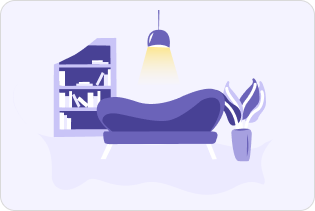
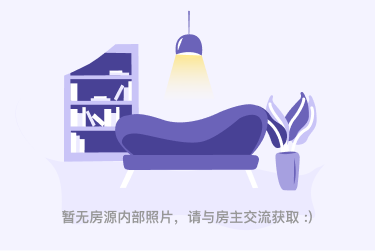
默认房源照片调整 + 跳转房源页+ 房源页照片显示

diff --git a/src/pages/house-detail/index.tsx b/src/pages/house-detail/index.tsx
@@ -1,0 +1,85 @@
+import { observer } from '@store/utils';
+import { View, Swiper, SwiperItem, Image, Text } from '@tarojs/components';
+import { useRouter } from '@tarojs/taro';
+import { HouseItemProps } from '@utils/interfaces';
+import { useEffect, useState } from 'react';
+import DefaultHouse from '@assets/images/default-house.png';
+
+const Index = () => {
+  const router = useRouter();
+  const houseId = router.params.id;
+  const [houseDetail, setHouseDetail] = useState<HouseItemProps | null>(null);
+
+  const demoData: HouseItemProps = {
+    house: {
+      id: '63cb1eba65fc8fd3054d82f30ac0a2d2',
+      capacity: 1,
+      description: '女',
+      startDate: '2024-04-20',
+      endDate: '2024-04-20',
+      houseType: 'unknown',
+      location: '西班牙巴塞罗那',
+      ownerTarget: '',
+      images: [
[1 lines of base64/hex data omitted]
+        // 'https://media.self.com/photos/630635c30b7f36ce816f374a/4:3/w_960,c_limit/DAB03919-10470989.jpg',
+        // 'https://thumbor.forbes.com/thumbor/fit-in/1290x/https://www.forbes.com/advisor/wp-content/uploads/2022/10/condo-vs-apartment.jpeg.jpg',
+      ],
+      xhsContact: '418467603',
+    },
+  };
+
+  useEffect(() => {
+    setHouseDetail(demoData);
+  }, []);
+
+  // 通过houseId获取房源详情
+  const getHouseDetail = async () => {
+    // 这里调用接口获取房源详情
+  };
+
+  // 充满容器的样式
+  const fullContainerStyle = {
+    width: '100%',
+    height: '100%',
+  };
+
+  return (
+    <View className='images'>
+      <Swiper
+        indicatorColor='#999'
+        indicatorActiveColor='#333'
+        circular
+        indicatorDots
+        autoplay
+        style={{ width: '100%', height: '250px' }} // 设置轮播图的宽高, 目前为固定值，后期可以根据需求调整，适配不同机型
+      >
+        {houseDetail?.house.images.length === 0 ? (
+          <SwiperItem style={fullContainerStyle}>
+            <View className='swiper-item' style={fullContainerStyle}>
+              <Image
+                src={DefaultHouse}
+                mode='aspectFit' // 保持原始比例，可能留有空白
+                style={fullContainerStyle}
+              />
+            </View>
+          </SwiperItem>
+        ) : (
+          houseDetail?.house.images.map((image, index) => (
+            <SwiperItem key={index} style={fullContainerStyle}>
+              <View className='swiper-item' style={fullContainerStyle}>
+                <Image
+                  src={image}
+                  mode='aspectFit' // 保持原始比例，可能留有空白
+                  style={fullContainerStyle}
+                />
+              </View>
+            </SwiperItem>
+          ))
+        )}
+      </Swiper>
+    </View>
+  );
+};
+
+export default observer(Index);

diff --git a/src/pages/home/house-item/index.tsx b/src/pages/home/house-item/index.tsx
@@ -1,42 +1,22 @@
 import { View, Text, Image } from '@tarojs/components';
 import DefaultHouse from '@assets/images/default-house.png';
 import DateIcon from '@assets/images/date-icon.svg';
-
-interface HouseItemProps {
-  house: {
-    id: string;
-    capacity: number;
-    description: string;
-    endDate: string; // 后期最好优化成日期格式
-    startDate: string;
-    houseType: string;
-    images: string[];
-    location: string;
-    ownerTarget: string;
-    xhsContact: string;
-  };
-}
+import Taro from '@tarojs/taro';
+import { HouseItemProps } from '@utils/interfaces';
 
 const HouseItem: React.FC<HouseItemProps> = ({ house }) => {
   const imageUrl = house.images.length > 0 ? house.images[0] : DefaultHouse;
 
+  // 跳转至房源详情
+  const toHouseDetail = () => {
+    Taro.navigateTo({
+      url: `/pages/house-detail/index?id=${house.id}`,
+    });
+  };
+
   return (
     <View className='house-item'>
-      <Image src={imageUrl} className='house-image' />
-      {!house.images && (
-        <View
-          style={{
-            marginTop: '-50px',
-            marginBottom: '30px',
-            color: '#979797',
-            justifyContent: 'center',
-            fontSize: '14px',
-            display: 'flex',
-          }}
-        >
-          <Text>暂无房源内部照片，请与房主交流获取</Text>
-        </View>
-      )}
+      <Image src={imageUrl} className='house-image' onClick={toHouseDetail} />
 
       <View
         style={{

diff --git a/src/common/interfaces/index.tsx b/src/common/interfaces/index.tsx
@@ -1,0 +1,17 @@
+/**
+ * 房源信息接口
+ */
+export interface HouseItemProps {
+  house: {
+    id: string;
+    capacity: number;
+    description: string;
+    endDate: string; // 后期最好优化成日期格式
+    startDate: string;
+    houseType: string;
+    images: string[];
+    location: string;
+    ownerTarget: string;
+    xhsContact: string;
+  };
+}

diff --git a/src/utils/interfaces.ts b/src/utils/interfaces.ts
@@ -1,0 +1,17 @@
+/**
+ * 房源信息接口
+ */
+export interface HouseItemProps {
+  house: {
+    id: string;
+    capacity: number;
+    description: string;
+    endDate: string; // 后期最好优化成日期格式
+    startDate: string;
+    houseType: string;
+    images: string[];
+    location: string;
+    ownerTarget: string;
+    xhsContact: string;
+  };
+}

diff --git a/src/pages/home/index.tsx b/src/pages/home/index.tsx
@@ -1,5 +1,5 @@
-import { View, Text, Button } from '@tarojs/components';
-import { useStore, observer } from '@store/utils';
+import { View } from '@tarojs/components';
+import { observer } from '@store/utils';
 import CustomTabBar from '@components/CustomTabBar';
 import SearchCard from './search-section';
 import './index.scss';

diff --git a/src/pages/house-detail/index.config.ts b/src/pages/house-detail/index.config.ts
@@ -1,0 +1,6 @@
+export default {
+  navigationBarTitleText: '房源详情',
+  navigationBarBackgroundColor: '#ffffff',
+  navigationBarTextStyle: 'black',
+  enableShareAppMessage: true,
+};
